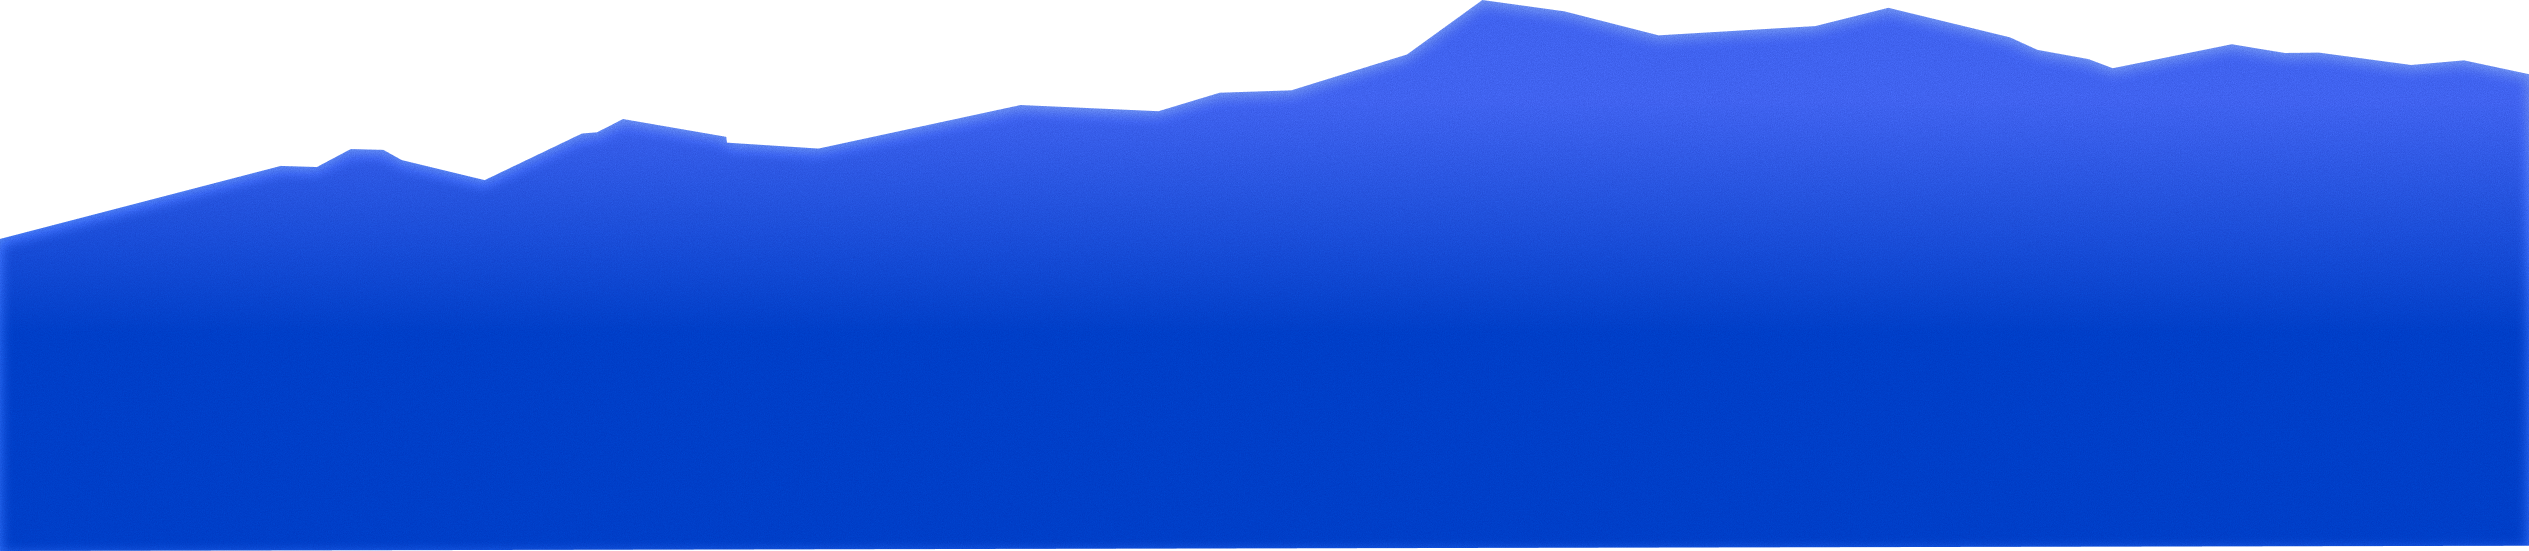
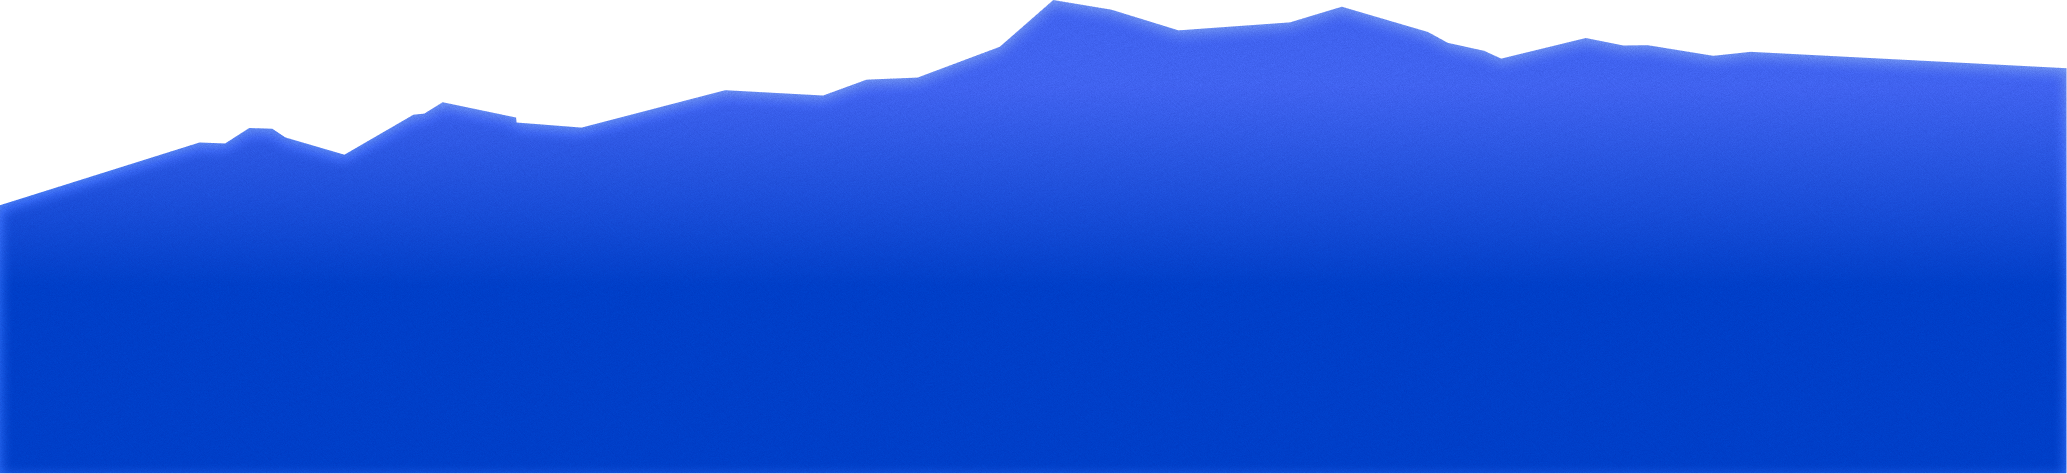
修正：hero動畫

diff --git a/final-project/src/views/Search.vue b/final-project/src/views/Search.vue
@@ -16,20 +16,22 @@ onMounted(() => {
     // 綠：左至右平移
     tl.to(".green", {
         x: 20,
-        duration: 1.5,
+        scale:1.05,
+        duration: 2,
 
     }, 0);
     // 橘色：右至左平移
     tl.to(".orange", {
         x: -15,
+        scale:1.05,
         duration: 1.5,
 
     }, 0);
     // 藍色：左至右
     tl.to(".blue", {
         x: 10,
-        scale:1.15,
-        duration: 2,
+        scale:1.05,
+        duration: 1,
     }, 0);
     // MapFlow：下至上
     gsap.from(".mapflow-logo",{
@@ -232,6 +234,7 @@ const carouselLis3 = computed(() => {
     bottom: 25%; 
 }
 .blue { 
+    overflow: visible;
     z-index: 4; 
     left: 0%;
     bottom: 0%;
